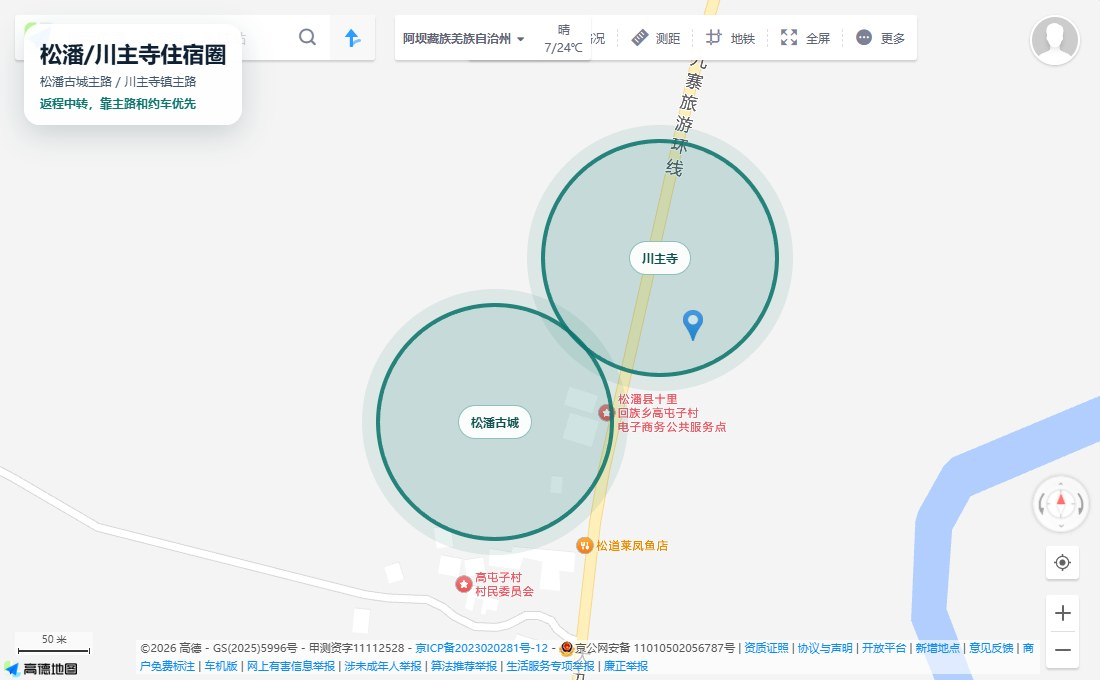
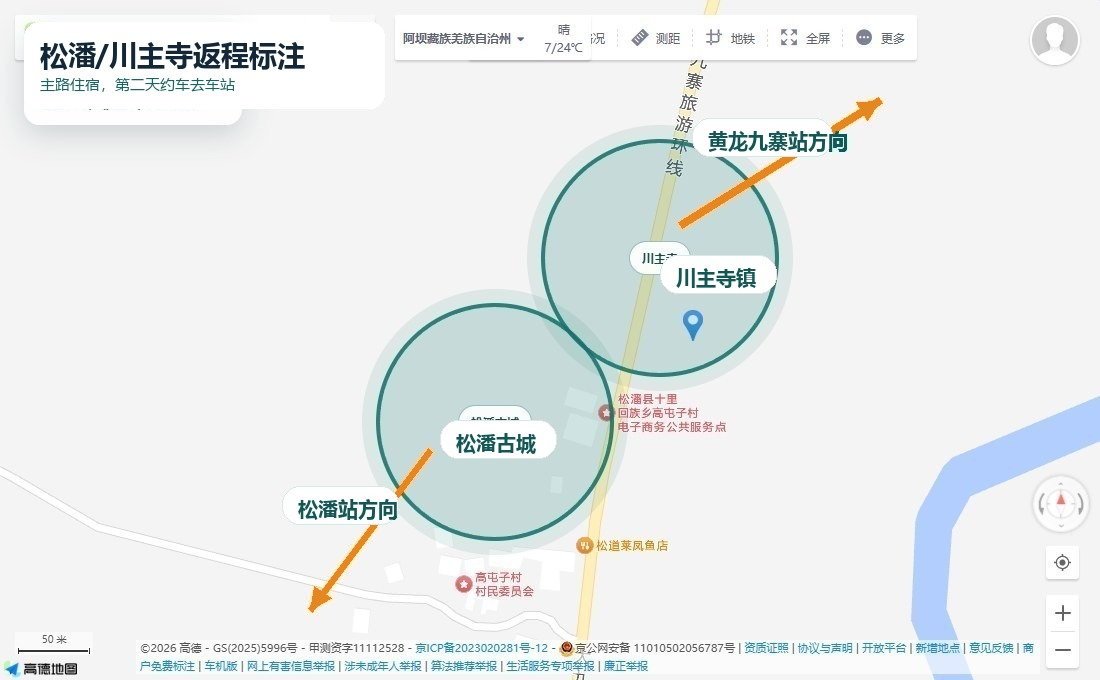
Refine Jiuzhaigou maps and budget summary

diff --git a/routes/jiuzhaigou-7days.html b/routes/jiuzhaigou-7days.html
@@ -656,6 +656,30 @@
   object-fit:cover;
   background:#eef5f4;
 }
+.route-overview-map {
+  max-width:760px;
+  margin:0 auto 12px;
+}
+.route-overview-map img {
+  max-height:430px;
+  object-fit:contain;
+  background:#fbfaf4;
+}
+.route-detail-strip {
+  display:grid;
+  grid-template-columns:repeat(auto-fit,minmax(135px,1fr));
+  gap:8px;
+  margin:12px 0;
+}
+.route-detail-strip span {
+  border:1px solid #d8ece8;
+  border-radius:12px;
+  background:#f6fbfa;
+  padding:9px 10px;
+  color:#18394a;
+  font-weight:900;
+  line-height:1.35;
+}
 .map-source-note {
   margin:8px 0 0;
   color:var(--muted);
@@ -679,6 +703,26 @@
 }
 .ticket-table .head {
   background:#e8f5f3;
+  color:#17394a;
+  font-weight:900;
+}
+.budget-speed-table {
+  display:grid;
+  grid-template-columns:1fr 1.25fr 1.05fr 1.05fr 1fr 1fr 1fr 1.25fr;
+  gap:1px;
+  overflow:auto;
+  border:1px solid var(--line);
+  border-radius:18px;
+  background:var(--line);
+  box-shadow:var(--soft-shadow);
+}
+.budget-speed-table > div {
+  min-width:142px;
+  padding:11px;
+  background:#fff;
+}
+.budget-speed-table .head {
+  background:#fff3d7;
   color:#17394a;
   font-weight:900;
 }
@@ -728,10 +772,12 @@
       .return-bar { align-items:flex-start; flex-direction:column; }
       .dashboard-hero,.dashboard-nav,.wrap { max-width:390px; margin-left:auto; margin-right:auto; }
       .station-grid,.transport-grid,.hotel-map-grid,.budget-split,.dunhuang-grid,.route-choice-grid,.decision-band,.scenery-table,.train-priority,.station-note-grid { grid-template-columns:1fr; }
-      .ticket-table { display:block; overflow:auto; }
-      .ticket-table > div { min-width:260px; border-bottom:1px solid var(--line); }
+      .ticket-table,.budget-speed-table { display:block; overflow:auto; }
+      .ticket-table > div,.budget-speed-table > div { min-width:260px; border-bottom:1px solid var(--line); }
       .mega-plan,.decision-card,.station-card,.transport-card,.map-circle-card,.budget-line-card,.dunhuang-card { padding:14px; }
       .map-visual { min-height:132px; }
+      .route-overview-map img { max-height:320px; }
+      .route-detail-strip { grid-template-columns:1fr 1fr; }
       .dashboard-hero { margin-top:12px; padding:0 12px; }
       .hero-shell { border-radius:22px; padding:18px 14px; }
       .hero-title h1 { font-size:26px; }
@@ -782,7 +828,7 @@
           <h2>路线总览卡</h2>
           <div class="overview-list">
             <div><span>适合人群</span><b>喜欢水色、森林、瀑布、草原的人。</b></div>
-            <div><span>交通方式</span><b>飞机 + 高铁 + 接驳 + 拼车/包车。</b></div>
+            <div><span>交通方式</span><b>夜间动卧/普通卧铺优先 + 飞机对比 + 成都后接驳/拼车；高铁仅作备选。</b></div>
             <div><span>推荐季节</span><b>暑期水量好但人多，提前看票和天气。</b></div>
             <div><span>海拔提醒</span><b>黄龙、若尔盖、唐克海拔较高，慢走别硬扛。</b></div>
             <div><span>不吃辣</span><b>默认清淡、不辣、不红油、不花椒。</b></div>
@@ -823,6 +869,24 @@
     </article>
   </div>
   <div class="notice"><b>交通结论：</b>如果能买到7月15日或7月16日晚上出发、次日上午到成都东的动卧，这是当前最贴合偏好的方案；如果只能买到普通火车次日傍晚到成都西，就不要硬接原D2黄龙，必须顺延或删减。</div>
+</section>
+
+<section class="wrap" id="route-arrow-map">
+  <div class="section-title"><h2>七天路线箭头图</h2><span class="lead">红色箭头标出今天、明天、后天怎么走</span></div>
+  <article class="card-pad card">
+    <figure class="real-map route-overview-map">
+      <img loading="lazy" src="../assets/images/maps/jiuzhaigou-route-arrows-map.jpg" alt="九寨沟七天路线红箭头地图">
+    </figure>
+    <div class="route-detail-strip">
+      <span>D1｜到成都住一晚</span>
+      <span>D2｜成都→黄龙→九寨沟</span>
+      <span>D3-D4｜九寨沟二进沟</span>
+      <span>D5｜九寨沟→花湖/唐克</span>
+      <span>D6｜黄河九曲→松潘/川主寺</span>
+      <span>D7｜返成都→返程</span>
+    </div>
+    <div class="notice"><b>怎么看：</b>D1 到成都住一晚；D2 成都到黄龙再到九寨沟；D3-D4 九寨沟二进沟；D5 去花湖/唐克；D6 回松潘/川主寺；D7 返成都。地图用于方向感和住宿/转场理解，实际导航以高德/12306/当地接驳为准。</div>
+  </article>
 </section>
 
 <section class="wrap" id="arrival-choice">
@@ -993,25 +1057,12 @@
     <article class="mega-plan secondary">
       <span class="recommend-mark">方案B｜时间预算够时推荐</span>
       <h3>十天九寨沟 + 敦煌西北奇观游</h3>
-      <p><b>路线：</b>广州/佛山 → 成都 → 黄龙 → 九寨沟 → 成都/兰州中转 → 敦煌 → 莫高窟 → 鸣沙山月牙泉 → 敦煌西线/雅丹或返程 → 广州/佛山</p>
-      <p><b>适合：</b>特别想要强烈视觉反差的人：前半段看九寨沟蓝绿色水色、黄龙彩池，后半段看大漠、戈壁、莫高窟、鸣沙山月牙泉。</p>
+      <p><b>一句话：</b>时间和预算够时再考虑，视觉反差最强；默认仍以方案A七天九寨沟为主线。</p>
       <ul>
-        <li><b>特点：</b>视觉反差最强，更像“奇观游”。</li>
-        <li><b>缺点：</b>大交通更贵，中途转场更多，敦煌比较干、晒，需要更高预算。</li>
-        <li><b>推荐指数：</b>时间和预算够时推荐。</li>
+        <li><b>路线：</b>广州/佛山 → 成都 → 黄龙 → 九寨沟 → 成都/兰州中转 → 敦煌 → 返程。</li>
+        <li><b>提醒：</b>完整时间轴、交通和预算放在下方折叠加长方案里。</li>
       </ul>
-      <div class="plan-days">
-        <span>D1：广州/佛山 → 成都</span>
-        <span>D2：成都东 → 黄龙九寨站 → 黄龙 → 九寨沟沟口</span>
-        <span>D3：九寨沟一进沟，经典精华日</span>
-        <span>D4：九寨沟二进沟，补拍慢走日</span>
-        <span>D5：九寨沟/松潘/黄龙九寨站 → 成都，中转休息</span>
-        <span>D6：成都/兰州 → 敦煌，晚上沙洲夜市轻松逛</span>
-        <span>D7：莫高窟 + 鸣沙山月牙泉</span>
-        <span>D8：敦煌西线，阳关/玉门关/雅丹魔鬼城，或根据预算选择轻量版</span>
-        <span>D9：敦煌市区轻松补漏 / 博物馆 / 返程中转</span>
-        <span>D10：敦煌/兰州/成都 → 广州/佛山返程</span>
-      </div>
+      <p><a class="quick-card" href="#dunhuang10"><span class="quick-kicker">加长预案</span><b>展开看十天敦煌方案</b><small>不压进7天主线。</small></a></p>
     </article>
   </div>
   <div class="notice"><b>页面判断：</b>只有7天就按方案A执行；能安排10天再看方案B。不要把敦煌压进7天里做成赶路玩法。</div>
@@ -1041,7 +1092,7 @@
       <div class="section-title"><h2>快速导航</h2><span class="lead">手机上直接跳到要看的部分</span></div>
       <div class="quick-grid">
         <a class="quick-card" href="#days"><span class="quick-kicker">行程</span><b>查看每日详细行程</b><small>D1-D7 默认折叠，点当天展开。</small></a>
-        <a class="quick-card" href="#traffic"><span class="quick-kicker">交通</span><b>查看交通接驳指南</b><small>高铁、接驳、包车和晚点替代。</small></a>
+        <a class="quick-card" href="#traffic"><span class="quick-kicker">交通</span><b>查看交通接驳指南</b><small>动卧/普通火车、飞机对比、接驳和晚点替代。</small></a>
         <a class="quick-card" href="#spots"><span class="quick-kicker">景点</span><b>查看景点详细攻略</b><small>门票、路线、拍照点和避坑。</small></a>
         <a class="quick-card" href="#food"><span class="quick-kicker">不辣</span><b>查看不吃辣指南</b><small>点餐话术、可点菜和避雷清单。</small></a>
       </div>
@@ -1269,7 +1320,8 @@
       <div class="grid"><article class="food-card card-pad"><h3>D1｜广州/佛山 → 成都</h3><p>避开火锅、串串、冒菜、红油抄手；吃清汤抄手、炖汤、蒸菜、清汤面、粤菜/家常菜。</p></article><article class="food-card card-pad"><h3>D2｜成都东 → 黄龙九寨站 → 黄龙 → 九寨沟沟口</h3><p>晚餐吃清汤牦牛肉锅/菌汤锅/番茄鸡蛋面，不放辣椒和花椒。</p></article><article class="food-card card-pad"><h3>D3｜九寨沟一进沟经典精华日</h3><p>自带面包/饭团/牛奶/巧克力；晚餐回沟口吃清淡汤锅/面食。</p></article><article class="food-card card-pad"><h3>D4｜九寨沟二进沟补拍慢走日</h3><p>继续自带轻食；晚餐清淡，别点红油凉菜和麻辣牦牛肉干。</p></article><article class="food-card card-pad"><h3>D5｜九寨沟 → 若尔盖花湖 → 唐克/若尔盖</h3><p>清汤牦牛肉、面食、青稞饼、酸奶；烧烤和凉菜先问是否辣。</p></article><article class="food-card card-pad"><h3>D6｜黄河九曲第一湾 → 松潘/川主寺</h3><p>松潘吃菌汤锅/清汤牦牛肉/蒸菜，继续强调不要辣椒红油花椒。</p></article><article class="food-card card-pad"><h3>D7｜松潘/川主寺 → 黄龙九寨站/松潘站 → 成都 → 返程</h3><p>成都东/机场吃清淡简餐，别为了最后一顿跑远。</p></article></div>
     </section>
     <section class="wrap" id="dunhuang10">
-  <div class="section-title"><h2>如果加到10天，可以这样看敦煌</h2><span class="lead">这是加长版预案，不压进7天主线</span></div>
+  <details class="card-pad card">
+    <summary><b>十天九寨沟 + 敦煌西北奇观游</b><span class="lead">时间和预算够时再考虑，视觉反差最强</span></summary>
   <div class="decision-band">
     <article class="decision-card">
       <span class="tag warn">为什么要10天</span>
@@ -1295,8 +1347,18 @@
     <article class="dunhuang-card"><h3>不适合谁</h3><ul><li>预算很紧。</li><li>怕晒怕干。</li><li>不想连续转场。</li><li>想慢慢玩九寨沟和川北。</li></ul></article>
     <article class="dunhuang-card"><h3>执行底线</h3><p>方案B是10天加长版，不是把敦煌塞进7天。先保住九寨沟二进沟和中转休息，再谈敦煌。</p></article>
   </div>
+  </details>
 </section>
 <section class="wrap" id="budget"><div class="section-title"><h2>预算模块</h2><span class="lead">分方案A和方案B，全部按区间看</span></div>
+  <div class="card-pad card" style="margin-bottom:14px">
+    <h3>预算速算表</h3>
+    <div class="budget-speed-table">
+      <div class="head">版本</div><div class="head">适合谁</div><div class="head">两人大交通参考</div><div class="head">两人当地交通参考</div><div class="head">两人门票参考</div><div class="head">两人餐饮参考</div><div class="head">住宿风险</div><div class="head">总预算提醒</div>
+      <div><b>省钱火车版</b></div><div>普通火车/硬卧优先；适合预算紧、能接受晚到成都并调整行程的人。</div><div>重点查 Z586 等普速卧铺；硬卧约343元/人，软卧约613元/人，以12306为准。</div><div>成都后接驳 + 川北拼车/小团；草原线可能需压缩。</div><div>九寨沟、黄龙优先；预算紧时删草原线或二进沟。</div><div>清淡简餐、面食、进沟自带轻食。</div><div>晚到成都会多占一晚，沟口暑期房价仍可能上涨。</div><div>最省但最容易牺牲草原线或九寨沟二进沟；不要硬接黄龙。</div>
+      <div><b>动卧推荐版</b></div><div>D848/D864 或类似夜间动卧优先；适合晚上出发、车上睡、次日上午到成都东的人。</div><div>动卧价格以12306付款页为准，可能接近飞机。</div><div>到成都东后接黄龙九寨站，再做景区接驳/拼车。</div><div>保留九寨沟二进沟 + 黄龙核心，草原线看体力。</div><div>按标准清淡餐安排，不吃辣话术随身用。</div><div>成都东站圈和沟口房要提前订可取消。</div><div>最顺，但动卧票难抢；睡不好就成都休整一天。</div>
+      <div><b>飞机省心版</b></div><div>广州白云飞成都天府/双流；适合不想坐长火车、愿意接受约1200往返机票的人。</div><div>你实查往返约1200元左右，实际按航司/携程/飞猪。</div><div>机场进城 + 成都后接驳/拼车；省体力但要留机场时间。</div><div>门票核心不变，预算优先给九寨沟和黄龙。</div><div>到成都晚就外卖/酒店附近清淡餐，不夜逛。</div><div>若晚到成都，优先住成都东站圈；暑期房价浮动大。</div><div>最省心；晚到成都后直接睡觉，别加夜间行程。所有总价以实际出票、订房、景区为准。</div>
+    </div>
+  </div>
   <div class="budget-split">
     <article class="budget-line-card"><h3>方案A｜大交通</h3><ul><li><b>飞机：</b>广州/佛山 → 成都飞机，你实查往返约1200元左右，实际按航司/携程/飞猪。</li><li><b>夜间动卧：</b>广州南 → 成都东 D848/D864，动卧价格以12306付款页为准；优点是晚上走、车上睡、次日上午到成都东。</li><li><b>普通火车/卧铺：</b>广州北/广州白云/深圳东 → 成都西/成都东，重点查 Z586 等车次。参考：硬座/无座约201元、硬卧约343元、软卧约613元，以12306付款页为准。注意普通火车到成都较晚，不能硬接黄龙。</li><li><b>白天高铁：</b>广州南 → 成都东高铁，二等座约666-743元/人，以12306为准。价格接近飞机，所以不是默认推荐。</li><li><b>成都东 → 黄龙九寨站：</b>二等座常见约128-205元/人区间，以12306付款页为准。</li></ul></article>
     <article class="budget-line-card"><h3>方案A｜当地接驳</h3><ul><li>成都机场/成都东/酒店之间：地铁更省，打车按高德实时。</li><li>黄龙九寨站 → 黄龙 → 九寨沟沟口：接驳/拼车/包车按当日平台。</li><li>D5-D6草原线：两人约600-1800元浮动，取决于拼车人数、车型和线路。</li></ul></article>
